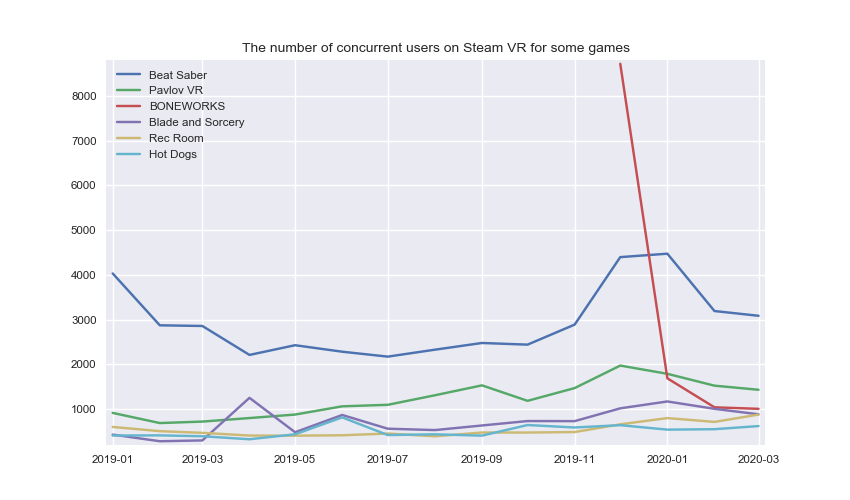
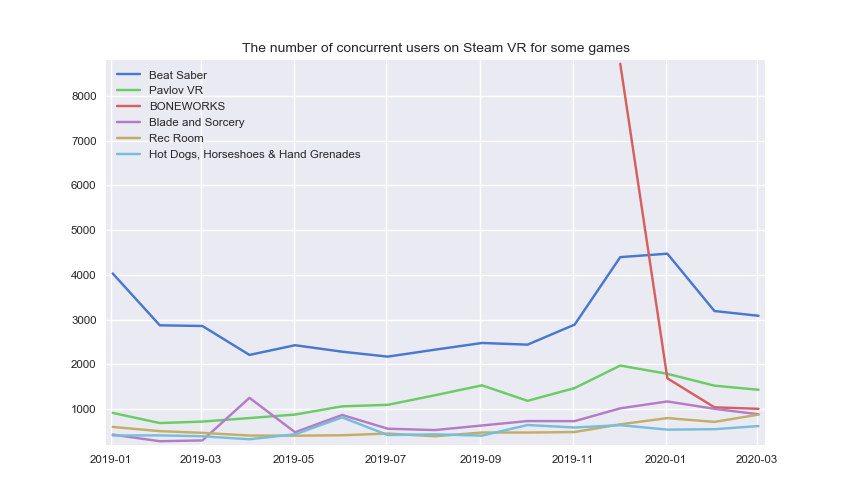
update

diff --git a/src/create_charts.py b/src/create_charts.py
@@ -8,7 +8,94 @@ from matplotlib.ticker import MultipleLocator
 import sql_query as sql
 
 
-def top10_chart(sql_result, chart_title, labels):
+def layout():
+    """Defines the basic layout for all charts"""
+    style.use('seaborn')
+    plt.style.use('seaborn-muted')
+    plt.rcParams['axes.xmargin'] = 0.01
+    plt.rcParams['axes.ymargin'] = 0.01
+    params = {'legend.fontsize': 'small',
+              'figure.figsize': (8.5, 5),
+              'axes.labelsize': 'small',
+              'axes.titlesize': 'medium',
+              'xtick.labelsize': 'small',
+              'ytick.labelsize': 'small'}
+    pylab.rcParams.update(params)
+
+
+def first_day_previous_month():
+    """Returns the date of the first day of the previous month"""
+    today = date.today()
+    first_day_this_month = date(today.year, today.month, 1)
+    last_day_of_the_previous_month = first_day_this_month - timedelta(1)
+    first_day_of_the_previous_month = date(
+        last_day_of_the_previous_month.year,
+        last_day_of_the_previous_month.month, 1)
+    return first_day_of_the_previous_month
+
+
+def change_game_title(sql_result):
+    """Changes game title that are too long to be displayed in the chart"""
+    shortened_title_names = ["Skyrim VR", "The Walking Dead", "Hot Dogs", "Rick and Morty"]
+    games_list = []
+    for appid, game_title, max_players, avg_players in sql_result:
+        for short_title in shortened_title_names:
+            if short_title in game_title:
+                games_list.append((appid, short_title, max_players, avg_players))
+                break
+        else:
+            games_list.append((appid, game_title, max_players, avg_players))
+    return games_list
+
+
+def line_chart(sql_result, chart_title, legend="", location="upper left"):
+    """Creates a line chart which with the matplotlib library."""
+    dates_list = []
+    players_list = []
+    for date_data, players in sql_result:
+        if len(date_data) > 2:
+            date_data = parser.parse(date_data)  # formatting string into date
+        dates_list.append(date_data)
+        players_list.append(players)
+    plt.title(chart_title)
+    if legend:
+        plt.plot(dates_list, players_list, label=legend)
+        plt.legend(loc=location)
+    else:
+        plt.plot(dates_list, players_list)
+    plt.grid(True)
+
+
+def create_line_charts(first_day):
+    """Creates the line charts with the data from the sql queries and saves them"""
+
+    # Chart 1
+    chart_title = "Steam VR usage of all VR games based on the monthly average" \
+                  " of the daily peak values"
+    sql_result = sql.peak_players()
+    line_chart(sql_result, chart_title)
+    plt.savefig('../images/avg_peak_over_time.png')
+
+    # Chart 2
+    plt.subplots()
+    chart_title = "VR usage of the last 3 months based on the daily peak values of all Steam VR only games"
+    months = ("2020-01", "2020-02", "2020-03")
+    for month in months:
+        sql_result = sql.max_peak_players_monthly(month)
+        line_chart(sql_result, chart_title, month, location='upper right')
+    plt.savefig('../images/monthly_vrusage.png')
+
+    # Chart 3
+    plt.subplots()
+    chart_title = "The number of concurrent users on Steam VR for some games"
+    sql_result = sql.top10_previous_month(first_day)
+    # sql_result = change_game_title(sql_result)
+    for appid, name, *_ in sql_result[1:7]:
+        line_chart(sql.max_peak_players(appid), chart_title, name)
+    plt.savefig('../images/max_peak.png')
+
+
+def bar_chart(sql_result, chart_title, labels):
     """Creates a chart of the 10 most used VR games since 2020 with the seaborn library."""
 
     # Defines the used graphic style and reduces the text size to fit all information on the chart
@@ -46,109 +133,39 @@ def top10_chart(sql_result, chart_title, labels):
     sns.despine(left=True, bottom=True)
 
 
-def peak_players_chart(sql_result, chart_title, legend="", location="upper left"):
-    """Creates a chart which shows the peak values with the matplotlib library."""
-    dates_list = []
-    players_list = []
-    for date_data, players in sql_result:
-        if len(date_data) > 2:
-            date_data = parser.parse(date_data)  # formatting string into date
-        dates_list.append(date_data)
-        players_list.append(players)
-    plt.title(chart_title)
-    if legend:
-        plt.plot(dates_list, players_list, label=legend)
-        plt.legend(loc=location)
-    else:
-        plt.plot(dates_list, players_list)
-    plt.grid(True)
+def create_bar_charts(first_day):
+    """Creates the bar charts with the data from the sql queries and saves them"""
 
-
-def change_game_title(sql_result):
-    """Changes game title that are too long to be displayed in the chart"""
-    shortened_title_names = ["Skyrim VR", "The Walking Dead", "Hot Dogs", "Rick and Morty"]
-    games_list = []
-    for appid, game_title, max_players, avg_players in sql_result:
-        for short_title in shortened_title_names:
-            if short_title in game_title:
-                games_list.append((appid, short_title, max_players, avg_players))
-                break
-        else:
-            games_list.append((appid, game_title, max_players, avg_players))
-    return games_list
-
-
-def first_day_previous_month():
-    """Returns the date of the first day of the previous month"""
-    today = date.today()
-    first_day_this_month = date(today.year, today.month, 1)
-    last_day_of_the_previous_month = first_day_this_month - timedelta(1)
-    first_day_of_the_previous_month = date(
-        last_day_of_the_previous_month.year,
-        last_day_of_the_previous_month.month, 1)
-    return first_day_of_the_previous_month
-
-
-def main():
-    """Generates Charts with the Matplotlib and Seaborn libraries."""
-    print("The charts will be created which can take a few seconds.")
-
-    #  Defines the basic layout for all charts
-    style.use('seaborn')
-    plt.rcParams['axes.xmargin'] = 0.01
-    plt.rcParams['axes.ymargin'] = 0.01
-    params = {'legend.fontsize': 'small',
-              'figure.figsize': (8.5, 5),
-              'axes.labelsize': 'small',
-              'axes.titlesize': 'medium',
-              'xtick.labelsize': 'small',
-              'ytick.labelsize': 'small'}
-    pylab.rcParams.update(params)
-
-    # Creates the charts with the data from the sql queries and saves them
-    chart_title = "Steam VR usage of all VR games based on the monthly average" \
-                  " of the daily peak values"
-    sql_result = sql.peak_players()
-    peak_players_chart(sql_result, chart_title)
-    plt.savefig('../images/avg_peak_over_time.png')
-
-    plt.subplots()
-    chart_title = "The number of concurrent users on Steam VR for some games"
-    first_day = first_day_previous_month()
-    sql_result = sql.top10_previous_month(first_day)
-    sql_result = change_game_title(sql_result)
-    for appid, name, *_ in sql_result[1:7]:
-        peak_players_chart(sql.max_peak_players(appid), chart_title, name)
-    plt.savefig('../images/max_peak.png')
-
+    # Chart 1
     previous_month = first_day.strftime("%B %Y")
     month = first_day.strftime("%B")
     chart_title = f"The most played Steam VR games in {previous_month}"
     labels = (f'The maximum number of concurrent users in {month}',
               f'The average daily peak {month}')
-    top10_chart(sql_result, chart_title, labels)
+    sql_result = sql.top10_previous_month(first_day)
+    sql_result = change_game_title(sql_result)
+    bar_chart(sql_result, chart_title, labels)
     plt.savefig('../images/top10.png')
     plt.savefig(f'../images/top10_{first_day.strftime("%Y_%m")}.png')
 
-    plt.subplots()
-    chart_title = "VR usage of the last 3 months based on the daily peak values of all Steam VR only games"
-    months = ("2020-01", "2020-02", "2020-03")
-    for month in months:
-        sql_result = sql.max_peak_players_monthly(month)
-        peak_players_chart(sql_result, chart_title, month, location='upper right')
-    plt.savefig('../images/monthly_vrusage.png')
-
+    # Chart 2
     sql_result = sql.top10()
     sql_result = change_game_title(sql_result)
     chart_title = "Steam VR games with the highest number of concurrent users since 2016"
     labels = ("The maximum number of concurrent users", "")
-    top10_chart(sql_result, chart_title, labels)
+    bar_chart(sql_result, chart_title, labels)
     plt.savefig('../images/top10_max_peak.png')
 
-    sql.close_database()
 
-    # Displays the charts
-    plt.show()
+def main():
+    """Generates Charts with the Matplotlib and Seaborn libraries."""
+    print("The charts will be created which can take a few seconds.")
+    layout()
+    first_day = first_day_previous_month()
+    create_line_charts(first_day)
+    create_bar_charts(first_day)
+    sql.close_database()
+    plt.show()                # Displays the charts
     print("The charts were successfully saved in the images folder.")
 
 
